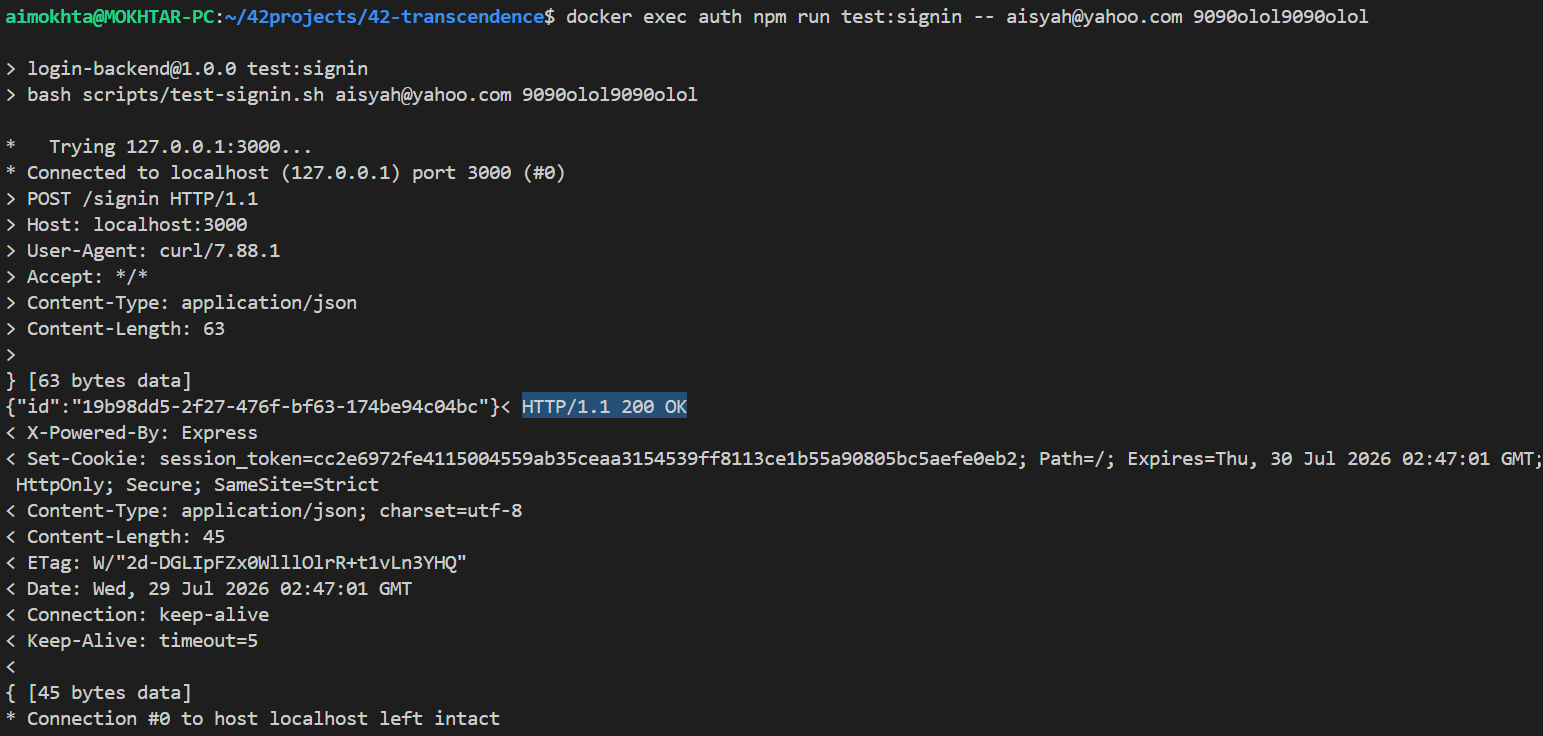
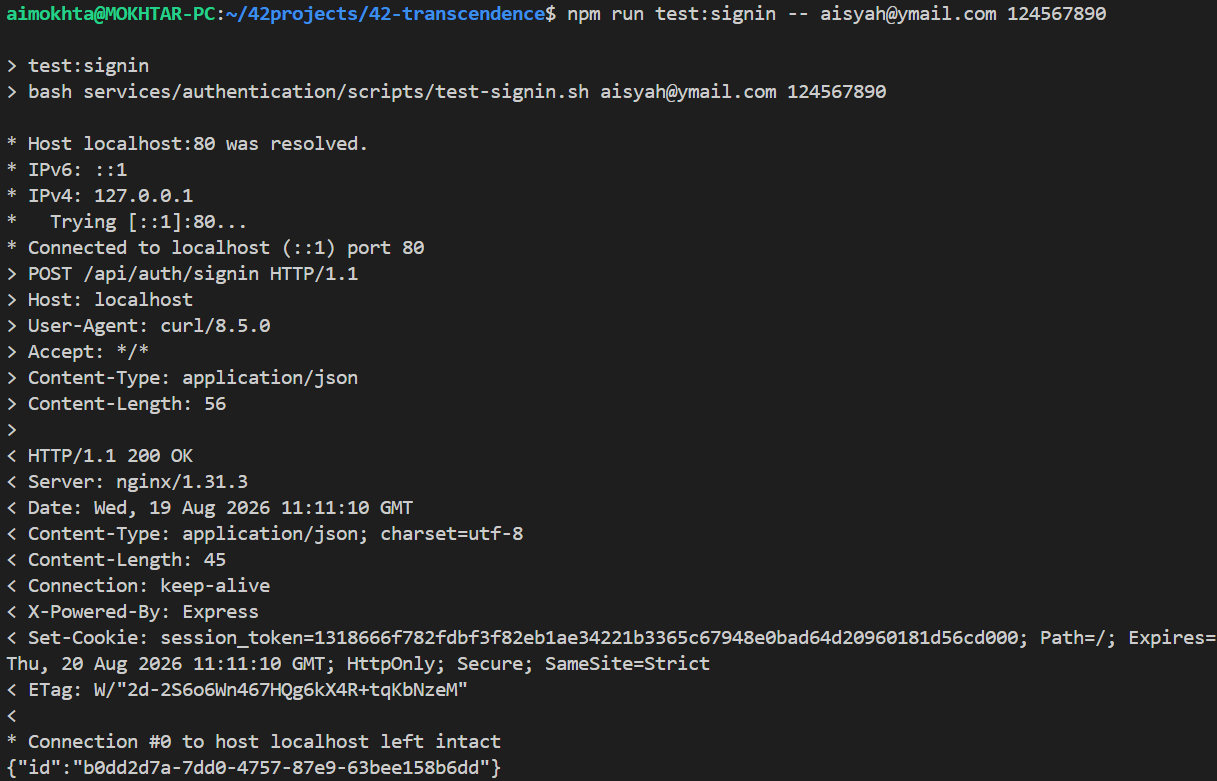
docs: updated pictures and instructions within README.md for infra/drizzle-gateway/docs/
with the updated env vars using naming convention of PG* that are officially recogized by psql and more shorter than POSTGRES_*

Changed region(s): [[0.0, 0.0625, 0.9992, 1.0], [0.0, 0.0, 0.9055, 0.0312]]

diff --git a/infra/drizzle-gateway/docs/README.md b/infra/drizzle-gateway/docs/README.md
@@ -80,10 +80,8 @@ Look for these specific terminal logs to confirm the database and its migrator h
    <br>
 > ⚠ **Troubleshooting:** If the browser becomes unresponsive upon clicking **Connect**, simply refresh the tab, repeat from Step 3, and it will work smoothly.<br>
    
-   ![Register Step 1.1](./pictures/dg/dg-4-register1.1.png)
-   ![Register Step 1.2](./pictures/dg/dg-4-register1.2.png)
+   ![Register Step 1](./pictures/dg/dg-4-register1.png)
    ![Register Step 2](./pictures/dg/dg-4-register2.png)
-   ![Register Step 3](./pictures/dg/dg-4-register3.png)
    <br><br>
 
 6. **Connection Established:** Drizzle Gateway is now connected! By default, it displays the `public` schema. Note that tables are stored inside each service's own dedicated schema, so `public` will appear empty.<br>
@@ -114,69 +112,68 @@ Look for these specific terminal logs to confirm the database and its migrator h
 ### Scenario A: New User Sign Up
 1. Run the following command at the root terminal:
    ```bash
-   docker exec auth npm run test:signup -- <email> <password>
+   npm run test:signup -- <email> <password>
    ```
    *Example:*
    ```bash
-   docker exec auth npm run test:signup -- aisyah@gmail.com 0909oioi0909oioi
+   npm run test:signup -- aisyah@gmail.com 1234567890
    ```
 
-2. **Terminal Output:** The auth service will respond with `201 Created`.
-3. **Database Verification:** Go to Drizzle Gateway in your browser, navigate to the `user` table under the auth schema, click **Refresh**, and verify the new user record appears.<br>
+2. **Terminal Output:** Auth service responds `201 Created`.
+3. **Database Verification:** Go to Drizzle Gateway in your browser, navigate to the `user` table under the auth schema, click **Refresh**, and verify the new user record appears with the registered `email`.
+<br><br>
 	![Sign Up Successful!](./pictures/auth/a-signup.png)
 <br><br>
 
 ### Scenario B: New User Sign In
 1. Run the following command at the root terminal:
    ```bash
-   docker exec auth npm run test:signin -- <email> <password>
+   npm run test:signin -- <email> <password>
    ```
    *Note: Use the exact same email and password used during the signup process.*
    *Example:*
    ```bash
-   docker exec auth npm run test:signin -- aisyah@gmail.com 0909oioi0909oioi
+   npm run test:signin -- aisyah@gmail.com 1234567890
    ```
 
-2. **Terminal Output:** The auth service will respond with `200 OK`.
-3. **Database Verification:** Go to Drizzle Gateway in your browser, navigate to the `session` table under the auth schema, click **Refresh**, and verify the session record has been created.<br>
+2. **Terminal Output:** Auth service responds `200 OK`.
+3. **Database Verification:** Go to Drizzle Gateway in your browser, navigate to the `session` table under the auth schema, click **Refresh**, and verify the session record has been created, with the same registered `uuid`.
+<br><br>
 	![Sign In Successful!](./pictures/auth/a-signin.png)
 <br><br>
 
-## UPDATED! new ways to test authentication now: <br>
-### signup:
-```
-bash services/authentication/scripts/test:signup.sh <user's email> <user's password>
-```
-### signin:
-```
-bash services/authentication/scripts/test:signin.sh <user's email> <user's password>
-```
-### validate:
-```
-bash services/authentication/scripts/test:validate.sh <user's session_token>
-```
-### logout:
-```
-bash services/authentication/scripts/test:logout.sh <user's session_token>
-```
+### Scenario C: Validate Session
+1. Run the following command at the root terminal:
+   ```bash
+   npm run test:validate -- <session_token>
+   ```
+   *Example:*
+   ```bash
+   npm run test:validate -- 1318666f782fdbf3f82eb1ae34221b3365c67948e0bad64d20960181d56cd000
+   ```
 
-<!-- 
-## 5. Live Database Testing: Party-Manager Service
+2. **Terminal Output:** Auth service responds `200 OK`.
+3. **Database Verification:** Go to Drizzle Gateway in your browser, navigate to the `session` table under the auth schema, click **Refresh**, and verify the `expires_at` timestamp has updated and is later than `created_at` timestamp.
+<br><br>
+	![Sign Up Successful!](./pictures/auth/a-validate.png)
+<br><br>
 
-`Note: Test this only after successfully tested authentication's signin`
 
-### Scenario A: Checking player is Online/Offline
-1. Save the test file anywhere in your host: `services/party-manager/test/test.html`
-2. Double click on the file for it to open up on browser
-3. Fill in:<br>
-Server URL = http://localhost<br>
-Socket.IO path = /socket/party<br>
-Session token = (copied from session_token generated by test:sigin via terminal or in session table via Drizzle-Gateway)<br>
+### Scenario D: User Logout
+1. Run the following command at the root terminal:
+   ```bash
+   npm run test:logout -- <session_token>
+   ```
+   *Example:*
+   ```bash
+   npm run test:logout -- 1318666f782fdbf3f82eb1ae34221b3365c67948e0bad64d20960181d56cd000
+   ```
 
-4. Click Connect
-5. In Drizzle-Gateway, go to party-manager-schema schema -> player_status table -> the said token marked as `TRUE` within is_online column, indicating player is **online**<br>
-6. Go back to the test.html page again, click Disconnect, then go back to the same player_status table via Drizzle-Gateway, click refresh, the said token marked as `FALSE` within is_online column, indicating player is **offline**.
--->
+2. **Terminal Output:** Auth service responds `200 OK`.
+3. **Database Verification:** Go to Drizzle Gateway in your browser, navigate to the `session` table under the auth schema, click **Refresh**, and verify the row using the session token within `token` is no longer exists.
+<br><br>
+	![Sign Up Successful!](./pictures/auth/a-logout.png)
+<br><br>
 
 ## 5. Live Database Testing: Party-Manager Service
 
